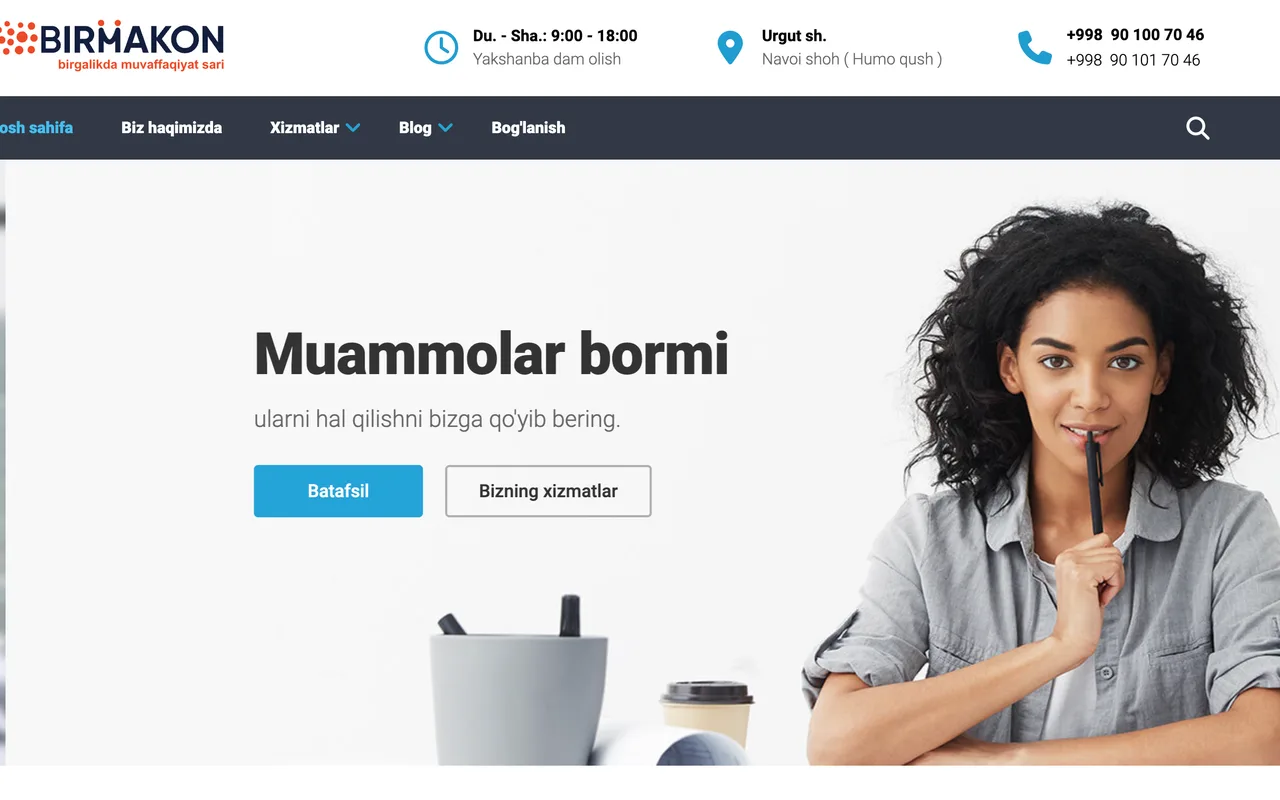
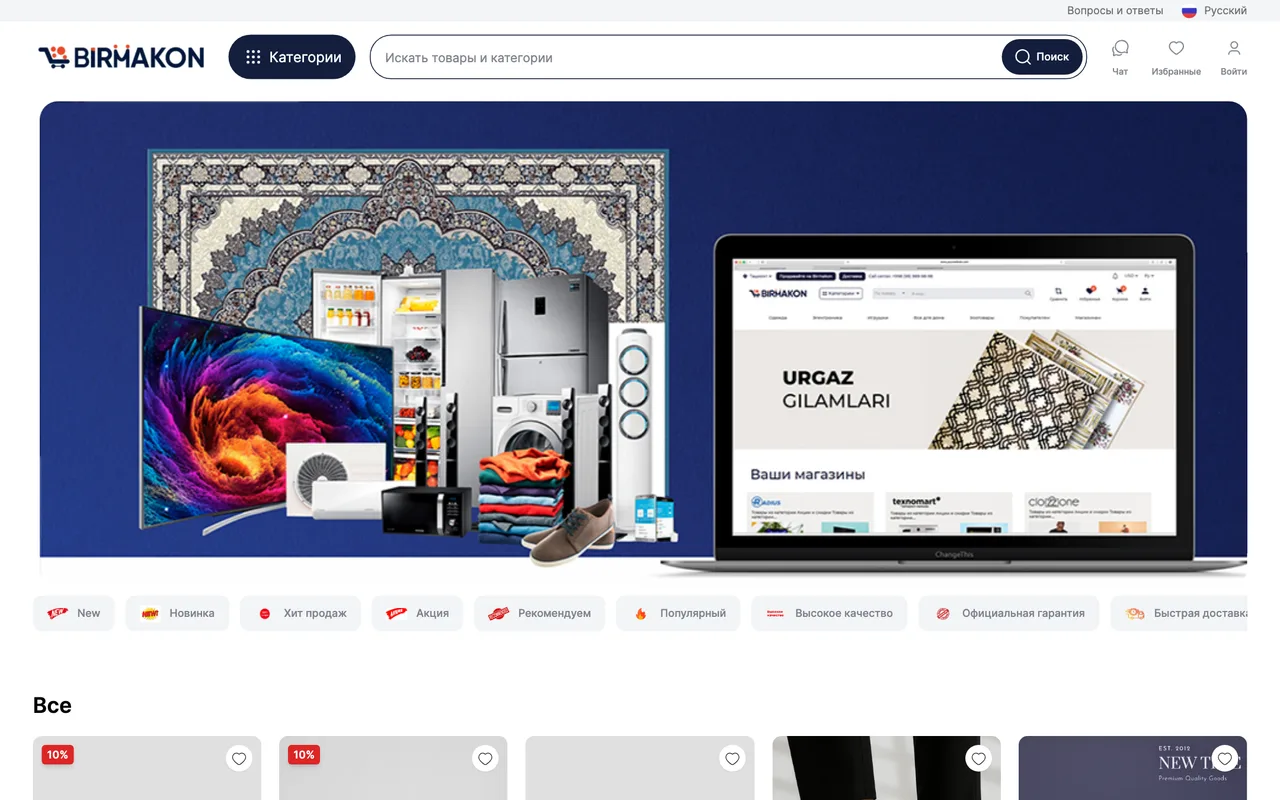
Show the resume link with its scheme, say 15+ platforms, relink Birmakon
Resume PDF, edited in place with the document's own embedded fonts:
- The portfolio line now reads https://malikovsh.vercel.app. The colon is
  absent from the bold face's subset, so it is drawn from F16 — the same
  Carlito-Bold, which carries it — rather than collapsing to zero width.
- "9 production platforms" reads "15+", matching the site. The line still
  ends well inside the right margin.
A pixel diff confines the changes to those two lines; page two is identical.

Birmakon now serves from birmakon.uz, so the card links there with a fresh
screenshot instead of sitting archived behind a dead birmakon.com.

diff --git a/src/data/projects.ts b/src/data/projects.ts
@@ -146,7 +146,8 @@ export const ARCHIVE: ArchiveProject[] = [
     {
         id: 'birmakonWeb',
         name: 'Birmakon',
-        label: 'birmakon.com',
+        label: 'birmakon.uz',
+        url: 'https://birmakon.uz/',
         image: '/projects/birmakon-web.webp',
         platform: 'web',
         stack: ['React', 'TypeScript', 'MobX', 'Bootstrap', 'Firebase'],
